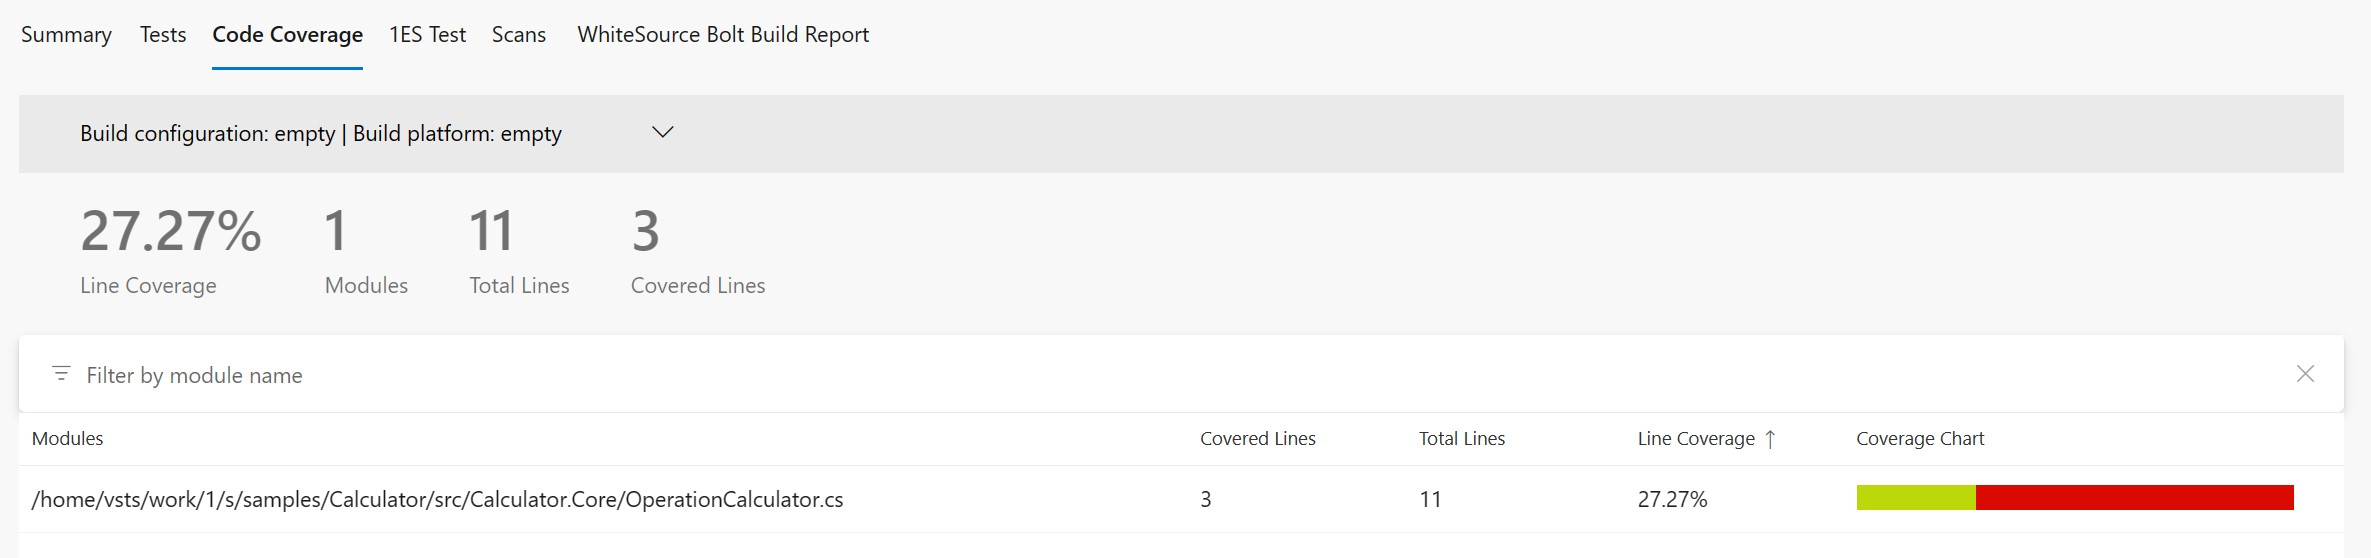
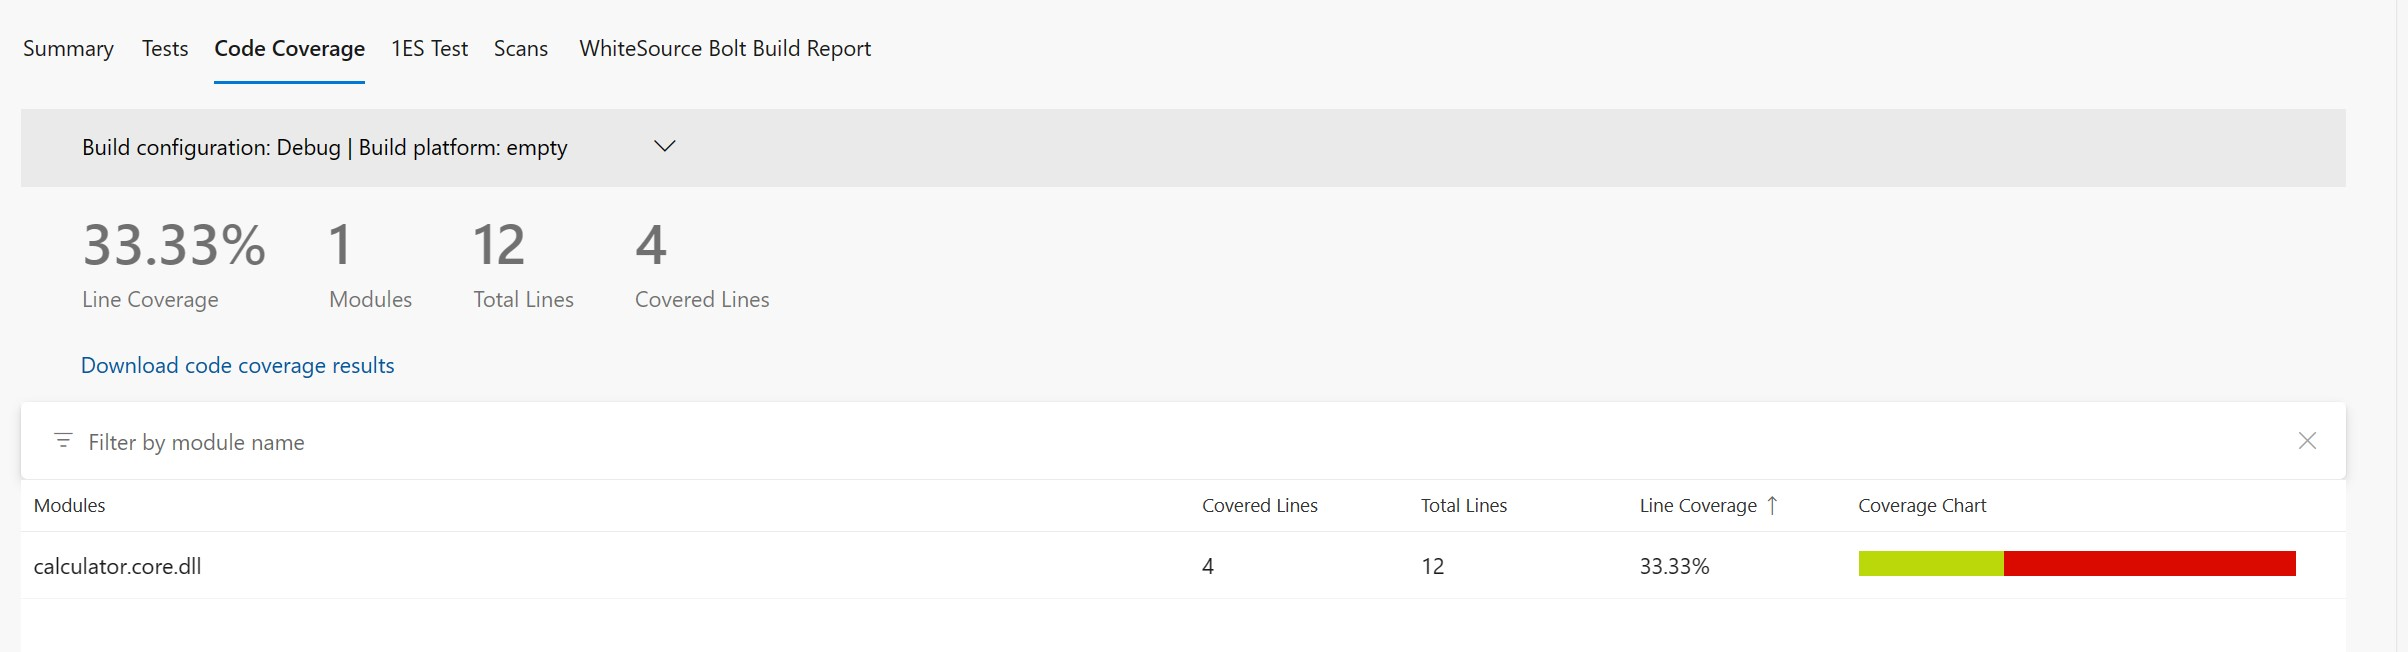
Scenario 6

diff --git a/samples/Calculator/scenarios/scenario06/README.md b/samples/Calculator/scenarios/scenario06/README.md
@@ -1,6 +1,6 @@
 # Scenario Description
 
-In this example we want to show you how to exclude from code coverage report whole project (tests project), method (`CalculateDivide`) and source file (`OperationConsts.cs`). We are also using cobertura report format by specifying configuration. Cobertura report format can be used to generate HTML report using [report generator](https://github.com/danielpalme/ReportGenerator). This format can be also used with [PublishCodeCoverageResults@2](https://learn.microsoft.com/en-us/azure/devops/pipelines/tasks/reference/publish-code-coverage-results-v2?view=azure-pipelines) in Azure DevOps pipelines.
+In this example we want to show you how to exclude from code coverage tests projects and any other libraries (moq, xunit). Regex `.*calculator[^/\\]*\.dll$` makes sure that only libraries containing `calculator` in file name are matched. If path is matched by one of the `<Include>` regexes and one of the `<Exclude>` regexes then finally path is excluded. Checking that after `calculator` string there is no `\` or '/' makes sure that path `D:\calculator\moq.dll` is not matched. Default format is binary (`.coverage` extension) which can be opened in Visual Studio Enterprise.
 
 # Configuration
 
@@ -11,29 +11,22 @@ In this example we want to show you how to exclude from code coverage report who
     <DataCollectors>
       <DataCollector friendlyName="Code Coverage" uri="datacollector://Microsoft/CodeCoverage/2.0" assemblyQualifiedName="Microsoft.VisualStudio.Coverage.DynamicCoverageDataCollector, Microsoft.VisualStudio.TraceCollector, Version=11.0.0.0, Culture=neutral, PublicKeyToken=b03f5f7f11d50a3a">
         <Configuration>
-          <Format>cobertura</Format>
           <CodeCoverage>
             <ModulePaths>
+              <Include>
+                <ModulePath>.*calculator[^/\\]*\.dll$</ModulePath>
+              </Include>
               <Exclude>
                 <ModulePath>.*tests.dll$</ModulePath>
               </Exclude>
             </ModulePaths>
-            <Functions>
-              <Exclude>
-                <Function>.*OperationCalculator\.CalculateDivide.*</Function>
-              </Exclude>
-            </Functions>
-            <Sources>
-              <Exclude>
-                <Source>.*OperationConsts\.cs$</Source>
-              </Exclude>
-            </Sources>
           </CodeCoverage>
         </Configuration>
       </DataCollector>
     </DataCollectors>
   </DataCollectionRunSettings>
 </RunSettings>
+
 ```
 
 > **_NOTE:_** Remember that any regex used for `<ModulePath>` or `<Source>` is matched for file path not file name.
@@ -64,11 +57,15 @@ You can also use [run.ps1](run.ps1) to collect code coverage.
     - name: Build
       run: dotnet build --no-restore
     - name: Test
-      run: dotnet test --settings ../../scenarios/scenario05/coverage.runsettings --no-build --verbosity normal
+      run: dotnet test --settings ../../scenarios/scenario06/coverage.runsettings --no-build --verbosity normal
+    - name: Install dotnet-coverage
+      run: dotnet tool install -g dotnet-coverage
+    - name: Convert .coverage report to cobertura
+      run: dotnet-coverage merge -r $GITHUB_WORKSPACE/samples/Calculator/tests/Calculator.Core.Tests/TestResults/*.coverage -f cobertura -o $GITHUB_WORKSPACE/report.cobertura.xml
     - name: ReportGenerator
       uses: danielpalme/ReportGenerator-GitHub-Action@5.1.24
       with:
-        reports: './**/TestResults/**/*.cobertura.xml'
+        reports: '${{ github.workspace }}/report.cobertura.xml'
         targetdir: '${{ github.workspace }}/coveragereport'
         reporttypes: 'MarkdownSummaryGithub'
     - name: Upload coverage into summary
@@ -77,7 +74,7 @@ You can also use [run.ps1](run.ps1) to collect code coverage.
       uses: actions/upload-artifact@v3
       with:
         name: code-coverage-report
-        path: ./**/TestResults/**/*.cobertura.xml
+        path: ./**/TestResults/**/*.coverage
 ```
 
 [Full source example](../../../../.github/workflows/Calculator_Scenario06.yml)
@@ -104,23 +101,12 @@ steps:
 - task: DotNetCoreCLI@2
   inputs:
     command: 'test'
-    arguments: '--no-build --configuration $(buildConfiguration) --settings samples/Calculator/scenarios/scenario06/coverage.runsettings --logger trx --results-directory $(Agent.TempDirectory)'
-    publishTestResults: false
+    arguments: '--no-build --configuration $(buildConfiguration) --settings samples/Calculator/scenarios/scenario06/coverage.runsettings'
     projects: '$(projectPath)' # this is specific to example - in most cases not needed
   displayName: 'dotnet test'
-
-- task: PublishTestResults@2
-  inputs:
-    testResultsFormat: 'VSTest'
-    testResultsFiles: '$(Agent.TempDirectory)/**/*.trx'
-    publishRunAttachments: false
-
-- task: PublishCodeCoverageResults@2
-  inputs:
-    summaryFileLocation: $(Agent.TempDirectory)/**/*.cobertura.xml
 ```
 
-> **_NOTE:_** To make sure that Code Coverage tab will be visible in Azure DevOps you need to make sure that previous steps will not publish test attachments (`publishRunAttachments: false` and `publishTestResults: false`).
+> **_NOTE:_** Azure DevOps pipelines automatically recognize binary coverage report format. Code coverage results are automatically processed and published to Azure DevOps. No additional steps needed.
 
 [Full source example](azure-pipelines.yml)
 
